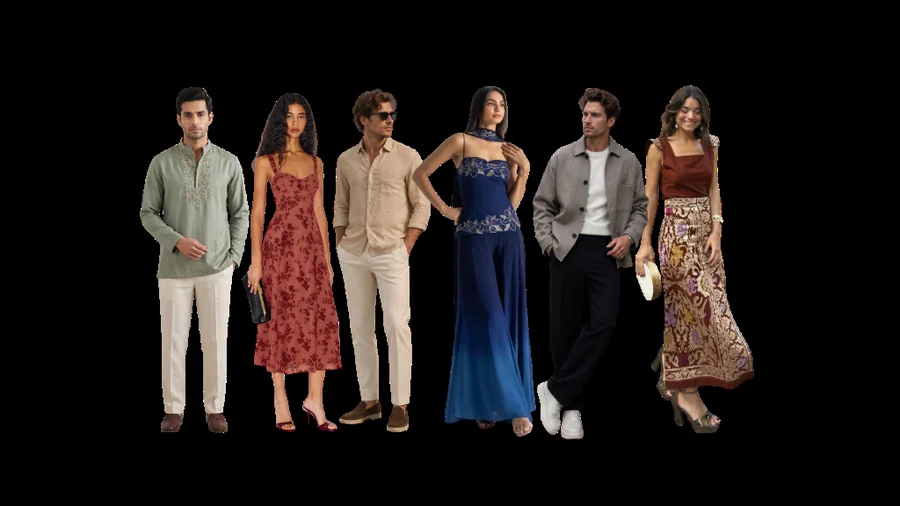
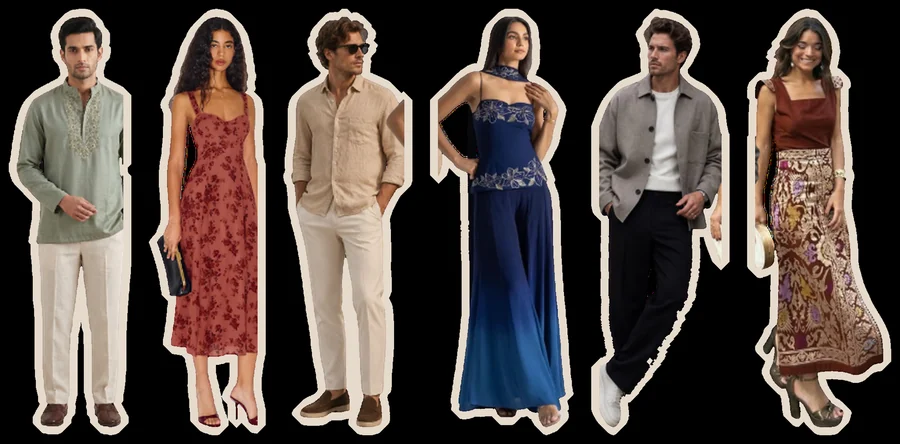
Replace Friday Night attire with full-body sticker lineup.

diff --git a/index.html b/index.html
@@ -1382,7 +1382,7 @@ picture{margin-block:clamp(52px,8vw,104px);}
 <div class="journey-rail">
 <article class="leg" data-tab="Friday Night">
 <div class="leg-body">
-<picture><source srcset="img/look-welcome-sm.webp 900w, img/look-welcome.webp 1800w" sizes="(max-width:760px) 100vw, 44rem" type="image/webp"><img src="img/look-welcome.png" width="900" height="506" decoding="async" alt="Six guests in festive Friday-night looks: an embroidered kurta, cocktail dresses, a navy embroidered set, a patterned lehenga skirt, and easy shirts with trousers."></picture>
+<picture><source srcset="img/look-welcome-sm.webp?v=2 900w, img/look-welcome.webp?v=2 1800w" sizes="(max-width:760px) 100vw, 44rem" type="image/webp"><img src="img/look-welcome.png?v=2" width="900" height="444" decoding="async" alt="Six guests in festive Friday-night looks: an embroidered kurta, cocktail dresses, a navy embroidered set, a patterned lehenga skirt, and easy shirts with trousers."></picture>
 <p class="when">Semi-Formal Western or Indian</p>
 <ul class="gems"><li>Cocktail dresses, skirts, anarkalis, button-downs &amp; light jackets.</li><li>Whatever colors you want!</li><li>Evening vacation outfit, slightly elevated! Avoid pointy heels.</li></ul>
 <p class="ps">P.S. Images are for inspiration purposes. We want you to wear something that fits your personal style, you feel comfortable in, and might already be in your closet!</p>
